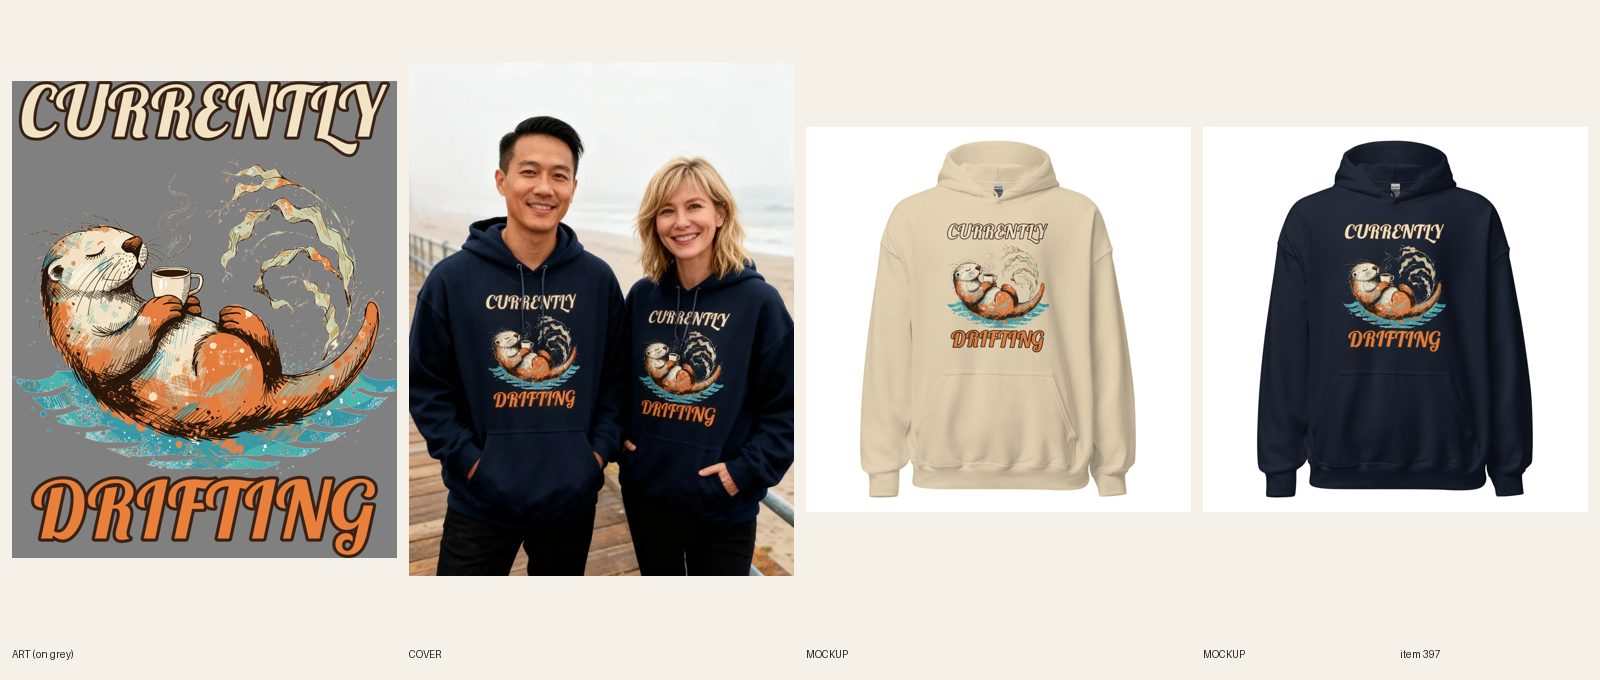
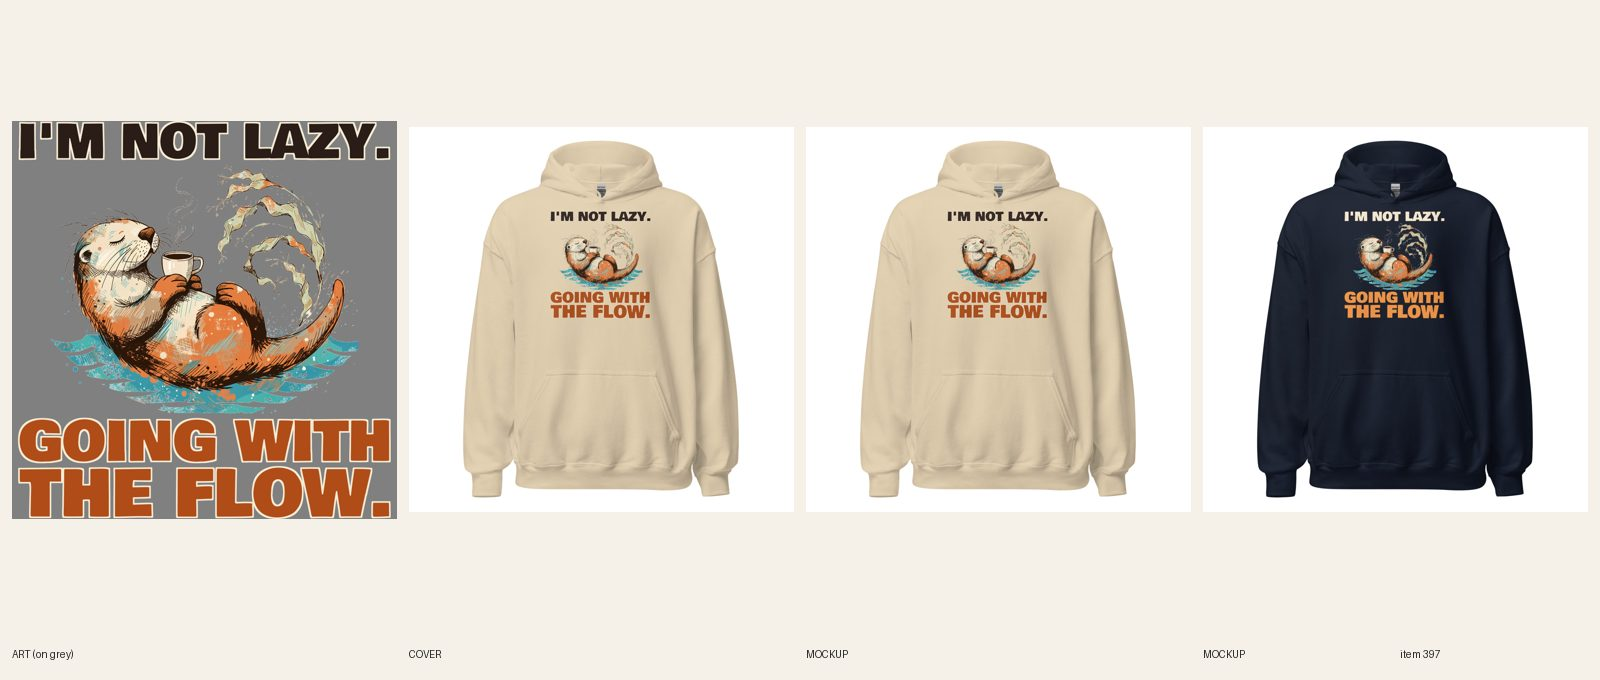
[C] review 397 (redo)
Claude-Session: https://claude.ai/code/session_01CCHcDj8LcJJ8qUPtKE3cvn

Changed region(s): [[0.0, 0.0926, 0.5, 0.8647], [0.8125, 0.3088, 0.9062, 0.525], [0.5938, 0.3088, 0.6562, 0.525]]

diff --git a/designs/c397/make.py b/designs/c397/make.py
@@ -1,0 +1,9 @@
+import sys; sys.path.insert(0,'.')
+from designs.lib import *
+im=Image.open('docs/print-files/397-currently-drifting.png').convert('RGBA'); W=im.width
+art=im.crop((0,685,W,3450)); art=art.crop(art.getbbox()); art=art.resize((int(art.width*0.8),int(art.height*0.8)),Image.LANCZOS)
+DK=(42,28,22,255); ORG=(224,112,44,255); DORG=(176,76,24,255); TEAL=(26,110,124,255)
+for tag,c1,k1,c2,k2,bg in (('sand',DK,CREAM,DORG,CREAM,(214,196,160,255)),('navy',CREAM,DK,(246,150,70,255),DK,(38,50,88,255))):
+    h1=line("I'M NOT LAZY.",'bowlby',0.97,W,c1,k1,kw=29); pa=line("GOING WITH",'bowlby',0.97,W,c2,k2,kw=29); pb=line("THE FLOW.",'bowlby',0.97,W,c2,k2,kw=29)
+    print(tag,'headline px',h1.width,'punch px',pa.width,pb.width,'heights',h1.height,pa.height,pb.height,'art',art.size)
+    out=lockup(art,W,[h1],[pa,pb],f'397-v2-flow-{tag}',{tag:bg}); print(out.size,out.height/out.width)

diff --git a/docs/pipeline/397-otter-hoodie-currently-drifting.md b/docs/pipeline/397-otter-hoodie-currently-drifting.md
@@ -1,4 +1,4 @@
-status: BUILDING [C] 2026-10-20 08:13
+status: REVIEW
 shopify: gid://shopify/Product/15363406168368
 lane: C
 type: new
@@ -30,3 +30,4 @@ kd: 34
 - 2026-10-17 21:03 UTC builder [C]: REVIEW. Sync 12/12. Sheet docs/review/397.jpg. design-crops and variant-photo audit cover published products only: rerun when ACTIVE. Local cohesion audit not run (no spec file); copy checked by hand against the art. Cover is a director call: hood drawstrings cross CURRENTLY and the kelp.
 - 2026-10-17 21:19 UTC director: LIVE. sheet seen: drifting otter with its coffee, CURRENTLY / DRIFTING reads on both; unisex couple on a boardwalk (drawstrings hang clear of the words). ACTIVE + Online Store, Headless, Google & YouTube; audit --handle PASS.
 - 2026-10-18 17:22 UTC director: QUALITY RESET grade C (new line + type), REDO. The product stays ACTIVE (same handle, URL, title keyword). 1. Line (R3.12, quality-reset 'Lines'): "CURRENTLY / DRIFTING": Just describes the floating otter; mild, no twist. Write 5 candidates, keep the one a stranger laughs at in 3 seconds without backstory; kill lines that only describe the picture; if none of the 5 is funny, PARK it. 2. Quality reset type bar (docs/backlog/quality-reset.md, 'The new bar'): headline at least 90% of the art width, heavy, colors pulled from the art; second line at least 45% of the headline's height, never a thin script on a dark or mid garment; use the lettering as a shape (arch, stacked lockup, words breaking into the art), not a plain bar above and a script line below; no font used on more than 1 in 6 of the last 30 designs. 3. Keep the art if it carries the new line, else one new illustration (R4/R5). New print means a new cover per R6.10, copy line one rewritten for the new joke (R8.3), and a fresh review sheet (R7.7). While quality-reset.md says PAUSED, only lane A builds, and only the samples step 2 names.
+- 2026-10-20 08:18 UTC builder [C]: REDO new line + type (grade C; title card 7i done). 5 candidates, compared with Plot Twist: I Stayed In, Politely, No. and Oops. Anyway.: "I'M NOT LAZY. / GOING WITH THE FLOW." (kept: the lazy-person defense, the floating otter is the proof), "CURRENTLY DRIFTING" (old, describes the picture), "NO PLANS. JUST COFFEE.", "HOLDING MY COFFEE. NOT MY COMPOSURE.", "MONDAY CAN FLOAT AWAY". Same floating-otter art at 80%. Measured ink widths (card 7h): headline I'M NOT LAZY. 3300 px / punch GOING WITH 3311 px and THE FLOW. 3311 px (100.3% each; punch block 875 px tall vs 350). Bowlby One both lines. Light-file (R5.3.8): Sand file 1090252596 (headline dark brown with a cream keyline, punch burnt orange), Navy file 1090252654 (headline cream with a dark keyline, punch light orange); docs/print-files/397-v2-flow-sand.png / -navy.png; print 3420 x 3533, FW 1500 TOP 0 (about 1,550 px high), 12/12 relinked (verified on the API). 2 fronts replaced in place, read at phone size. Title set to "Unisex Otter – I'm Not Lazy, Going with the Flow Hoodie" (handle unchanged), copy + SEO rewritten; handle in retired-covers.json. Plain product shot. fal $0.

diff --git a/docs/intake-log.md b/docs/intake-log.md
@@ -6,6 +6,7 @@ RUNNING director since 2026-10-20 07:17 UTC
 RUNNING lane B since 2026-10-20 07:29 UTC
 2026-10-20 08:00 UTC — [E] Builder run: redid #608 Women's Pickleball tee (line + type: POLITE SMILE. / PERSONAL VENDETTA., same serene-lady art, Bevan, dark-ink file on 5 light colors, 30/30 synced). REVIEW. fal $0.
 RUNNING lane C since 2026-10-20 07:00 UTC
+2026-10-20 08:18 UTC — [C] Builder run: redid #397 Unisex Otter hoodie (new line + type: I'M NOT LAZY. / GOING WITH THE FLOW., headline 3300 px / punch 3311 px, Bowlby One, same otter art, Sand file 1090252596 + Navy file 1090252654, FW 1500 TOP 0, 12/12 relinked, 2 fronts replaced in place, title + copy + SEO updated). REVIEW. fal $0.
 2026-10-20 08:12 UTC — [C] Builder run: redid #368 Unisex Western heavyweight hoodie (new line + type: ALL LUCK. / NO HORSE SENSE., punch full width 3189 px, Alfa Slab, same horseshoe art, Sandstone file 1090249416 + Storm Blue file 1090249454, FW 1600 TOP 20, 14/14 relinked, 2 fronts replaced in place, title + copy + SEO updated). REVIEW. fal $0.
 2026-10-20 08:03 UTC — [C] Builder run: redid #450 Unisex Crow hoodie (new line + type: FINDERS KEEPERS. / SORRY ABOUT YOUR EARRING., headline 3249 px / punch 3281+3265 px, Big Shoulders + Alfa Slab, same crow art, Sand file 1090246352 + Navy file 1090246409, FW 1500 TOP 0, 12/12 relinked, 2 fronts replaced in place, title + copy + SEO updated); added 9 handles to retired-covers.json. REVIEW. fal $0.
 2026-10-20 07:57 UTC — [C] Builder run: redid #509 Women's National Park zip hoodie (new line + type: I'M NOT SINGLE. / I HAVE A CANYON., headline 3034 px / punch 3096 px, Big Shoulders + Bowlby, same canyon art, Ash file 1090241503 + Navy file 1090241557, BW 1650 BT 225, 12/12 relinked, back mockups replaced, title + copy + SEO updated). REVIEW. fal $0.
